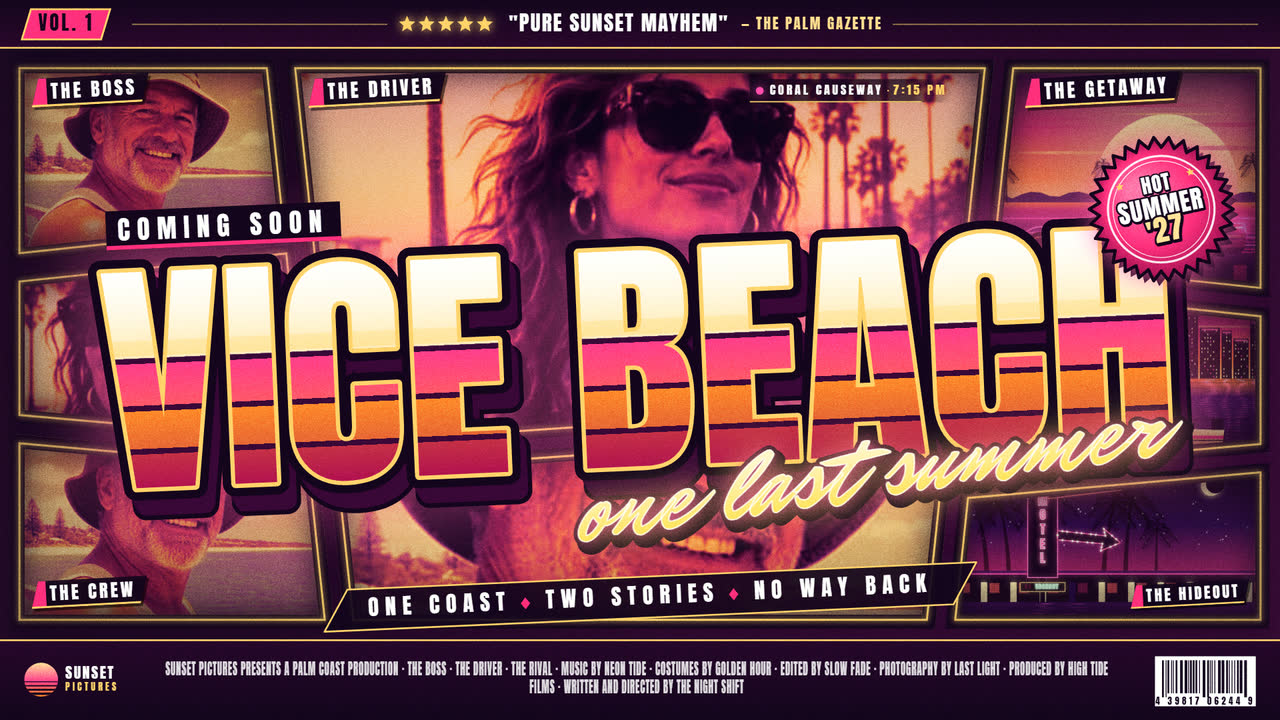
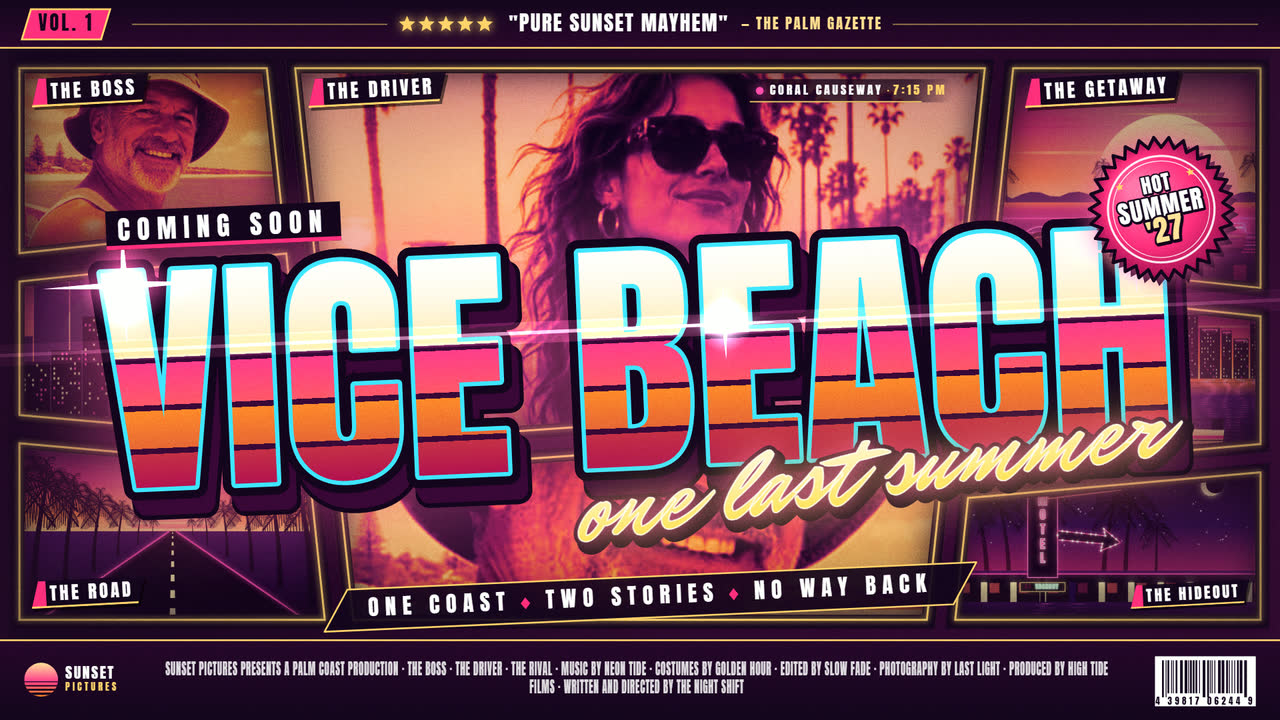
Punchier wide cover: chrome glints, cyan title rim, fuller hero
- Title lettering gets an anamorphic flare along its shine and chrome
  glints on its corners.
- Grades can set a complementary rim colour for the title (cyan on
  Sunset Strip, mint on Tropic Heat), so it stands off the warm art.
- New "Light rays" extra (off by default): a burst of light behind the
  title with a soft dark pool under the lettering.
- Wide cover: hero framed with her whole face above the title, a neon
  skyline and palm highway in place of repeated crops, and stronger
  grade, glow and vignette with less grain. Screenshots recaptured.

diff --git a/app/src/lettering.js b/app/src/lettering.js
@@ -186,10 +186,81 @@ function drawTitleLines(ctx, lines, baselines, capH, size, palette, fx) {
   ctx.strokeStyle = palette.ink;
   ctx.lineWidth = outline;
   lines.forEach((line, i) => ctx.strokeText(line, 0, baselines[i]));
-  ctx.strokeStyle = palette.frame ?? palette.sub;
+  ctx.strokeStyle = palette.rim ?? palette.frame ?? palette.sub;
   ctx.lineWidth = size * 0.034;
   lines.forEach((line, i) => ctx.strokeText(line, 0, baselines[i]));
   fillTitleLines(ctx, lines, baselines, capH, size, palette);
+  if (fx.glow > 0) drawTitleFlare(ctx, lines, baselines, capH, palette, fx.glow);
+}
+
+/** A four-point chrome glint: two thin crossed spikes and a soft halo, added as light. */
+function drawGlint(ctx, x, y, r, color) {
+  const k = deviceScale(ctx);
+  const halo = ctx.createRadialGradient(x, y, 0, x, y, r * 0.55);
+  halo.addColorStop(0, 'rgba(255,255,255,0.95)');
+  halo.addColorStop(0.25, withAlpha(color, 0.6));
+  halo.addColorStop(1, withAlpha(color, 0));
+  ctx.fillStyle = halo;
+  ctx.fillRect(x - r, y - r, r * 2, r * 2);
+  ctx.save();
+  ctx.shadowColor = color;
+  ctx.shadowBlur = r * 0.25 * k;
+  ctx.fillStyle = '#ffffff';
+  for (const [w, h] of [[r, r * 0.05], [r * 0.05, r * 0.7]]) {
+    ctx.beginPath();
+    ctx.moveTo(x - w, y);
+    ctx.lineTo(x, y - h);
+    ctx.lineTo(x + w, y);
+    ctx.lineTo(x, y + h);
+    ctx.closePath();
+    ctx.fill();
+  }
+  ctx.restore();
+}
+
+/** Light catching the chrome: an anamorphic flare streaking along the shine's edge of the first line, and glints on
+ * the title's top corners. */
+function drawTitleFlare(ctx, lines, baselines, capH, palette, glow) {
+  ctx.save();
+  ctx.globalCompositeOperation = 'lighter';
+  const widths = lines.map((l) => ctx.measureText(l).width);
+  const y = baselines[0] - capH * 0.64;
+  const half = widths[0] * 0.75;
+  const streak = ctx.createLinearGradient(-half, 0, half, 0);
+  streak.addColorStop(0, withAlpha(palette.glow, 0));
+  streak.addColorStop(0.5, `rgba(255,255,255,${0.75 * glow})`);
+  streak.addColorStop(1, withAlpha(palette.glow, 0));
+  ctx.fillStyle = streak;
+  ctx.fillRect(-half, y - capH * 0.008, half * 2, capH * 0.016);
+  const bloomStreak = ctx.createLinearGradient(-half, 0, half, 0);
+  bloomStreak.addColorStop(0, withAlpha(palette.glow, 0));
+  bloomStreak.addColorStop(0.5, withAlpha(palette.glow, 0.3 * glow));
+  bloomStreak.addColorStop(1, withAlpha(palette.glow, 0));
+  ctx.fillStyle = bloomStreak;
+  ctx.fillRect(-half, y - capH * 0.05, half * 2, capH * 0.1);
+  const top = baselines[0] - capH;
+  drawGlint(ctx, -widths[0] / 2 + capH * 0.12, top + capH * 0.06, capH * 0.42 * glow, palette.glow);
+  const last = lines.length - 1;
+  drawGlint(ctx, widths[last] / 2 - capH * 0.18, baselines[last] - capH * 0.9, capH * 0.32 * glow, palette.frame ?? palette.glow);
+  drawGlint(ctx, widths[0] * 0.08, y, capH * 0.26 * glow, '#ffffff');
+  ctx.restore();
+}
+
+/** Darkens the art right behind the caption with a soft ink pool, so the lettering stands off the busy panels. */
+export function drawCaptionShade(ctx, plan, palette, amount = 0.6) {
+  if (amount <= 0) return;
+  ctx.save();
+  ctx.translate(plan.x, plan.y + plan.capH * 0.1);
+  ctx.rotate(plan.angle);
+  ctx.scale(1, (plan.blockH * 0.78) / (plan.blockW * 0.6));
+  const r = plan.blockW * 0.6;
+  const g = ctx.createRadialGradient(0, 0, 0, 0, 0, r);
+  g.addColorStop(0, withAlpha(palette.ink, amount));
+  g.addColorStop(0.55, withAlpha(palette.ink, amount * 0.6));
+  g.addColorStop(1, withAlpha(palette.ink, 0));
+  ctx.fillStyle = g;
+  ctx.fillRect(-r, -r, r * 2, r * 2);
+  ctx.restore();
 }
 
 /** The optional slab: a skewed parallelogram in the slab colour with a hard ink shadow, speed stripes and an ink

diff --git a/app/src/grades.js b/app/src/grades.js
@@ -1,7 +1,7 @@
 // Colour grades: each is a gradient map (shadows -> highlights) blended over the photo after a contrast and
 // saturation push, an alternate map so neighbouring panels differ, and the palette the rest of the poster uses
-// (gutter ink, caption slab, lettering, glow, the painted sky scenes, the panels' frame lines and the title's
-// sunset stripes, light top to deep bottom).
+// (gutter ink, caption slab, lettering, glow, the painted sky scenes, the panels' frame lines, the title's sunset
+// stripes, light top to deep bottom, and on some grades a complementary rim colour around the title).
 
 export const GRADES = [
   {
@@ -10,7 +10,7 @@ export const GRADES = [
     map: ['#1b0630', '#7a1060', '#f2305f', '#ff8a2a', '#ffd76e'],
     alt: ['#12052b', '#521677', '#e0308f', '#ff8c5a', '#ffe2b4'],
     mix: 0.84, contrast: 1.2, saturation: 1.25,
-    palette: { ink: '#14051d', slab: '#ff2f7d', slabShade: '#9c0f4f', title: ['#fff6e0', '#ffc070'], titleShadow: '#3a0838', sub: '#ffe14d', glow: '#ff5fa2', sky: ['#2a0b4a', '#c42a6b', '#ff7b3a', '#ffd27a'], sun: ['#fff3b0', '#ff5d5d'], sea: '#3b0f52', neon: '#ff4fb0', frame: '#ffd36b', stripes: ['#fffdf0', '#ffe39a', '#ff3d8b', '#ff8a2a', '#b3124f'] },
+    palette: { ink: '#14051d', slab: '#ff2f7d', slabShade: '#9c0f4f', title: ['#fff6e0', '#ffc070'], titleShadow: '#3a0838', sub: '#ffe14d', glow: '#ff5fa2', sky: ['#2a0b4a', '#c42a6b', '#ff7b3a', '#ffd27a'], sun: ['#fff3b0', '#ff5d5d'], sea: '#3b0f52', neon: '#ff4fb0', frame: '#ffd36b', rim: '#3fe6ff', stripes: ['#fffdf0', '#ffe39a', '#ff3d8b', '#ff8a2a', '#b3124f'] },
   },
   {
     id: 'neon-nights',
@@ -50,7 +50,7 @@ export const GRADES = [
     map: ['#04201f', '#0c4f4a', '#2a9a7f', '#ff9248', '#fff0d4'],
     alt: ['#1b0a20', '#5a1a45', '#e04a5a', '#ffb067', '#fff6e2'],
     mix: 0.72, contrast: 1.2, saturation: 1.35,
-    palette: { ink: '#071514', slab: '#ff6b3d', slabShade: '#8e2a10', title: ['#fffaf0', '#ffe3b0'], titleShadow: '#0a2e2c', sub: '#3dffc8', glow: '#ff9a5c', sky: ['#0b2a3a', '#16696a', '#ff8a4a', '#ffd9a0'], sun: ['#fff7d6', '#ff8040'], sea: '#073235', neon: '#3dffc8', frame: '#ffd36b', stripes: ['#fffaf0', '#ffe9b8', '#ff4d7a', '#ff8a3a', '#9c1f3a'] },
+    palette: { ink: '#071514', slab: '#ff6b3d', slabShade: '#8e2a10', title: ['#fffaf0', '#ffe3b0'], titleShadow: '#0a2e2c', sub: '#3dffc8', glow: '#ff9a5c', sky: ['#0b2a3a', '#16696a', '#ff8a4a', '#ffd9a0'], sun: ['#fff7d6', '#ff8040'], sea: '#073235', neon: '#3dffc8', frame: '#ffd36b', rim: '#3dffc8', stripes: ['#fffaf0', '#ffe9b8', '#ff4d7a', '#ff8a3a', '#9c1f3a'] },
   },
 ];
 

diff --git a/app/src/poster-extras.js b/app/src/poster-extras.js
@@ -10,6 +10,44 @@ import { createRandom, seedFromText } from './random.js';
 
 const DEG = Math.PI / 180;
 
+/** A burst of light rays fanning out from behind the title across the panel area, in the glow colour, strongest near
+ * the title and fading out toward the edges. `plan` is the caption's plan (its centre is the burst's centre). */
+export function drawLightRays(ctx, state, plan, area, width, palette) {
+  if (!state.extras?.rays || !plan) return;
+  const amount = 0.35 + 0.45 * state.fx.glow;
+  const reach = Math.hypot(width, area.bottom - area.top);
+  const cx = plan.x;
+  const cy = plan.y;
+  ctx.save();
+  ctx.beginPath();
+  ctx.rect(0, area.top, width, area.bottom - area.top);
+  ctx.clip();
+  ctx.globalCompositeOperation = 'screen';
+  const fade = ctx.createRadialGradient(cx, cy, plan.capH * 0.4, cx, cy, reach * 0.62);
+  fade.addColorStop(0, withAlpha(palette.glow, 0.5 * amount));
+  fade.addColorStop(0.35, withAlpha(palette.glow, 0.26 * amount));
+  fade.addColorStop(1, withAlpha(palette.glow, 0));
+  ctx.fillStyle = fade;
+  const n = 18;
+  for (let i = 0; i < n; i++) {
+    const a0 = plan.angle + (i / n) * Math.PI * 2;
+    const a1 = a0 + (Math.PI / n) * (i % 3 === 0 ? 0.55 : 0.8);
+    ctx.beginPath();
+    ctx.moveTo(cx, cy);
+    ctx.lineTo(cx + Math.cos(a0) * reach, cy + Math.sin(a0) * reach);
+    ctx.lineTo(cx + Math.cos(a1) * reach, cy + Math.sin(a1) * reach);
+    ctx.closePath();
+    ctx.fill();
+  }
+  // A warm sun glow right behind the lettering.
+  const sun = ctx.createRadialGradient(cx, cy, 0, cx, cy, plan.blockW * 0.6);
+  sun.addColorStop(0, withAlpha(palette.sun[0], 0.35 * amount));
+  sun.addColorStop(1, withAlpha(palette.sun[1], 0));
+  ctx.fillStyle = sun;
+  ctx.fillRect(0, area.top, width, area.bottom - area.top);
+  ctx.restore();
+}
+
 /** Heights of the press strip along the top and the credits strip along the bottom (0 when switched off), which the
  * layouts keep free of panels. */
 export function extrasInsets(state) {

diff --git a/app/src/shots.js b/app/src/shots.js
@@ -5,7 +5,7 @@
 //   title= sub= tag= pos=auto|top|center|bottom  scale=<lettering size>  seed=<n> (runs Surprise me)  select=<panel>
 //   strength= grain= vignette= glow= border=  slab=1 (the coloured slab behind the title)
 //   roles=THE BOSS,THE DRIVER,...  stamps=,CORAL CAUSEWAY · 7:15 PM,...  (per panel, in order; empty keeps none)
-//   quote= source= vol= seal= edge=jagged|scalloped sealspot=title|corner tagline= credits=  off=quote,seal,...
+//   quote= source= vol= seal= edge=jagged|scalloped sealspot=title|corner tagline= credits=  off=quote,seal,...  on=rays,...
 import { POSTER_SIZES, defaultCrop } from './state.js';
 
 const EXTRA_TEXT = { quote: 'quoteText', source: 'quoteSource', vol: 'vol', seal: 'sealText', edge: 'sealEdge', sealspot: 'sealSpot', tagline: 'taglineText', credits: 'creditsText' };
@@ -47,6 +47,7 @@ export async function runShot(query, api) {
   if (query.has('stamps')) state.stamps = state.stamps.map((_, i) => query.get('stamps').split(',')[i] ?? '');
   for (const [key, field] of Object.entries(EXTRA_TEXT)) if (query.has(key)) state.extras[field] = query.get(key);
   for (const key of (query.get('off') ?? '').split(',')) if (key in state.extras) state.extras[key] = false;
+  for (const key of (query.get('on') ?? '').split(',')) if (key in state.extras) state.extras[key] = true;
   if (query.has('select')) state.selected = Number(query.get('select'));
   api.rebuild();
 }

diff --git a/app/src/poster.js b/app/src/poster.js
@@ -5,11 +5,11 @@
 import { buildLayout } from './layouts.js';
 import { applyGradeToPixels, findGrade, withAlpha } from './grades.js';
 import { SCENES, drawScene } from './scenes.js';
-import { drawCaption, planCaption } from './lettering.js';
+import { drawCaption, drawCaptionShade, planCaption } from './lettering.js';
 import { deviceScale, insetConvexPolygon, tracePolygon } from './geometry.js';
 import { createRandom } from './random.js';
 import {
-  drawCreditsStrip, drawPanelLabels, drawPressStrip, drawSeal, drawTaglineBar, extrasInsets, measureTagline, sealPlacement,
+  drawCreditsStrip, drawLightRays, drawPanelLabels, drawPressStrip, drawSeal, drawTaglineBar, extrasInsets, measureTagline, sealPlacement,
 } from './poster-extras.js';
 
 const panelCache = new Map();
@@ -256,6 +256,8 @@ export function renderPoster(canvas, state, { pixelScale = 1, highlight = -1 } =
       draw: (bar, x, top) => drawTaglineBar(ctx, bar, x, top, palette),
     },
   });
+  drawLightRays(ctx, state, plan, layout.area, width, palette);
+  if (state.extras?.rays) drawCaptionShade(ctx, plan, palette, 0.25 + 0.25 * state.fx.vignette);
   const seal = state.extras?.seal ? sealPlacement(state, plan, layout.area) : null;
   drawPanelLabels(ctx, state, layout, palette, gutter, plan.box, seal);
   const insets = extrasInsets(state);

diff --git a/app/index.html b/app/index.html
@@ -80,6 +80,7 @@
       <h2>Poster extras</h2>
       <div class="chips" id="extras-toggles">
         <label><input type="checkbox" data-extra="frames"><span>Frame lines</span></label>
+        <label><input type="checkbox" data-extra="rays"><span>Light rays</span></label>
         <label><input type="checkbox" data-extra="roles"><span>Role tags</span></label>
         <label><input type="checkbox" data-extra="stamps"><span>Stamps</span></label>
         <label><input type="checkbox" data-extra="quote"><span>Press quote</span></label>

diff --git a/app/src/state.js b/app/src/state.js
@@ -23,6 +23,7 @@ export const DEFAULT_STAMPS = ['CORAL CAUSEWAY · 7:15 PM', '', '', 'PELICAN PIE
 export function defaultExtras() {
   return {
     frames: true,
+    rays: false,
     roles: true,
     stamps: true,
     quote: true,
@@ -208,4 +209,5 @@ export function surpriseExtras(state, rng) {
   ex.vol = rng.pick(VOL_POOL);
   for (const key of ['roles', 'stamps', 'quote', 'seal', 'tagline', 'credits']) ex[key] = rng() < 0.85;
   ex.frames = rng() < 0.9;
+  ex.rays = rng() < 0.75;
 }
